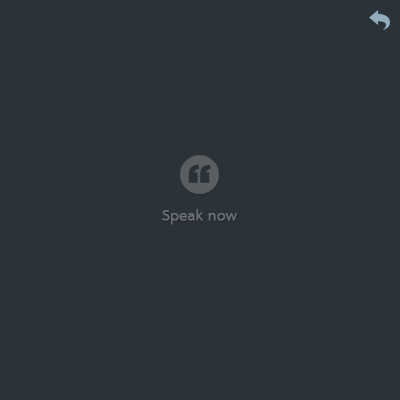
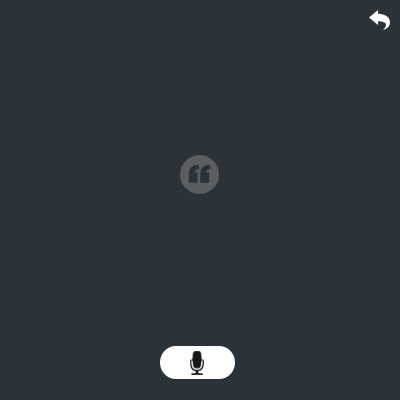
แก้ไขหน้าสอง และ address already ด้วยการปิด socket ทุกครั้งหลังใช้เสร็จ

Changed region(s): [[0.39, 0.84, 0.6, 0.96], [0.39, 0.51, 0.6, 0.57], [0.93, 0.03, 0.99, 0.09]]

diff --git a/src/MainActivity.java b/src/MainActivity.java
@@ -9,11 +9,6 @@ import java.awt.event.WindowAdapter;
 import java.awt.event.WindowEvent;
 import java.awt.event.WindowListener;
 import java.io.IOException;
-import java.io.ObjectOutputStream;
-import java.net.InetSocketAddress;
-import java.nio.channels.ServerSocketChannel;
-import java.nio.channels.SocketChannel;
-
 import javax.swing.JFrame;
 import javax.swing.JOptionPane;
 import javax.swing.JPasswordField;
@@ -27,13 +22,15 @@ public class MainActivity extends JFrame implements KeyListener {
 	ImagePanel join;
 	ImagePanel runframe;
 	MainActivity th = this;
-
+	Listener listener;
+	
+	
+	
 	public static void main(String[] arg) {
 		new MainActivity();
 	}
 
 	public MainActivity() {
-
 		this.setSize(400, 400);
 		Dimension dim = Toolkit.getDefaultToolkit().getScreenSize();
 		this.setLocation(dim.width / 2 - this.getSize().width / 2, dim.height
@@ -45,25 +42,10 @@ public class MainActivity extends JFrame implements KeyListener {
 		this.setResizable(false);
 		this.setVisible(true);
 	}
-
-	public void broadcast(AudioChunk audio) throws InterruptedException,
-			IOException {
-		ServerSocketChannel ssChannel = ServerSocketChannel.open();
-		ssChannel.configureBlocking(true);
-		int port = 8000;
-		ssChannel.socket().bind(new InetSocketAddress(port));
-
-		while (true) {
-			SocketChannel sChannel = ssChannel.accept();
-
-			ObjectOutputStream oos = new ObjectOutputStream(sChannel.socket()
-					.getOutputStream());
-			oos.writeObject(audio);
-			oos.close();
-			System.out.println("Connection ended");
-		}
-	}
-
+	
+	// ############################################################################# //
+	// ############################# Frame Login ################################### //
+	// ############################################################################# //
 	
 	public void frameJoinChannel() {
 		join = new ImagePanel("picture/login.png");
@@ -102,12 +84,11 @@ public class MainActivity extends JFrame implements KeyListener {
 							"Please fill in your password.", "Error",
 							JOptionPane.ERROR_MESSAGE);
 				} else {
-					// configAdhoc();
+					configAdhoc();
 					frameRun();
 				}
 			}
 		});
-
 		join.add(usernameField);
 		join.add(ssidField);
 		join.add(keyField);
@@ -115,40 +96,9 @@ public class MainActivity extends JFrame implements KeyListener {
 		this.add(join);
 		this.revalidate();
 		this.repaint();
+		
 	}
-
-	public void frameRun() {
-		System.out.println("----Run-----");
-		runframe = new ImagePanel("picture/runframe.png");
-		runframe.setSize(400, 400);
-		runframe.setLayout(null);
-		PictureButton back = new PictureButton("picture/back.png",
-				"picture/backClick.png");
-		back.setBounds(370, 10, 21, 20);
-		back.addActionListener(new ActionListener() {
-
-			@Override
-			public void actionPerformed(ActionEvent arg0) {
-				th.remove(runframe);
-				frameJoinChannel();
-			}
-		});
-		runframe.add(back);
-		this.remove(join);
-		this.add(runframe);
-		this.revalidate();
-		this.repaint();
-	}
-
-	public void setStandartTextField(JTextField textField, String text) {
-		textField.setBackground(new Color(58, 65, 73));
-		textField.setForeground(Color.white);
-		textField.setBorder(null);
-		textField.setCaretColor(Color.white);
-		TextPrompt tp = new TextPrompt(text, textField);
-		tp.setForeground(new Color(106, 116, 127));
-	}
-
+	
 	public void configAdhoc() {
 		Process process;
 		try {
@@ -221,8 +171,78 @@ public class MainActivity extends JFrame implements KeyListener {
 		} catch (InterruptedException e) {
 			e.printStackTrace();
 		}
-
 	}
+	
+	// ############################################################################# //
+	// ####################### Frame run steam sound ############################### //
+	// ############################################################################# //
+	
+	boolean speak = true; 
+	public void frameRun() {
+		//Start Thread listener
+		listener = new Listener();
+		listener.start();
+		
+		runframe = new ImagePanel("picture/runframe.png");
+		runframe.setSize(400, 400);
+		runframe.setLayout(null);
+		PictureButton back = new PictureButton("picture/back.png",
+				"picture/back_click.png");
+		back.setBounds(368, 10, 21, 20);
+		back.addActionListener(new ActionListener() {
+
+			@Override
+			public void actionPerformed(ActionEvent arg0) {
+				th.remove(runframe);
+				listener.CloseSocket();
+				listener.stop();
+				frameJoinChannel();
+			}
+		});
+		
+		PictureButton mic = new PictureButton("picture/TapMic.png","picture/SpeakNow.png");
+		mic.setBounds(159,330,75,48);
+		mic.addActionListener(new ActionListener() {
+			@Override
+			public void actionPerformed(ActionEvent arg0) {
+				if(isSpeak()){
+					System.out.println("Speak now"); // start broadcast 
+					setSpeak(false);
+				}else{
+					System.out.println("Tap mic"); // pause broadcast
+					setSpeak(true);
+				}	
+			}
+		});
+		
+		runframe.add(back);
+		runframe.add(mic);
+		this.remove(join);
+		this.add(runframe);
+		this.revalidate();
+		this.repaint();
+	}
+
+	public boolean isSpeak() {
+		return speak;
+	}
+	
+	public void setSpeak(boolean speak) {
+		this.speak = speak;
+	}
+	
+	// ########################################################################## //
+	
+	public void setStandartTextField(JTextField textField, String text) {
+		textField.setBackground(new Color(58, 65, 73));
+		textField.setForeground(Color.white);
+		textField.setBorder(null);
+		textField.setCaretColor(Color.white);
+		TextPrompt tp = new TextPrompt(text, textField);
+		tp.setForeground(new Color(106, 116, 127));
+	}
+
+	
 
 	public void exitListener() {
 		WindowListener exitListener = new WindowAdapter() {
@@ -239,6 +259,9 @@ public class MainActivity extends JFrame implements KeyListener {
 		};
 		this.addWindowListener(exitListener);
 	}
+	
+	
+
 
 	@Override
 	public void keyPressed(KeyEvent e) {
@@ -257,5 +280,6 @@ public class MainActivity extends JFrame implements KeyListener {
 		// TODO Auto-generated method stub
 
 	}
-
+	
+	
 }

diff --git a/src/Listener.java b/src/Listener.java
@@ -1,0 +1,58 @@
+import java.io.IOException;
+import java.net.DatagramPacket;
+import java.net.DatagramSocket;
+import java.net.SocketException;
+
+public class Listener extends Thread{
+	private SoundPlayer soundPlayer;
+	private int oldSequenceNumber =-1;
+	DatagramSocket aSocket = null;
+	
+	public Listener(){
+		soundPlayer = new SoundPlayer();
+	}
+	
+	public void run(){
+		System.out.println("Thread Listener Start");
+		int PORT = 55555;
+		try{
+			aSocket = new DatagramSocket(PORT);
+			aSocket.setBroadcast(true);
+			while(true){
+				byte[] buffer = new byte[AudioChunk.TOTAL_LENGTH];
+				DatagramPacket receivePacket = new DatagramPacket(buffer, buffer.length);
+				aSocket.receive(receivePacket);
+				System.out.println("Request IP address: "+ receivePacket.getAddress() + " Port: "+ receivePacket.getPort());
+				try {
+					AudioChunk receiveChunk = new AudioChunk(receivePacket.getData());
+					if(receiveChunk.sequenceNumber > oldSequenceNumber) {
+						soundPlayer.addSoundToQueue(receiveChunk);
+						oldSequenceNumber = receiveChunk.sequenceNumber;
+					}
+				} catch (AudioChunkIncorrectLengthException e) {
+					e.printStackTrace();
+				}
+			}
+		}catch(SocketException ex){
+			System.out.print("Class Listener Socket exception: ");
+			System.out.print(ex.getMessage());
+		}catch(IOException ex){
+			System.out.print("Class Listener IO Exception: ");
+			System.out.print(ex.getMessage());
+		}finally{
+			if(aSocket != null){
+				aSocket.close();		
+			}
+		}
+	}
+	public SoundPlayer getSoundPlayer() {
+		return soundPlayer;
+	}
+	public void setSoundPlayer(SoundPlayer soundPlayer) {
+		this.soundPlayer = soundPlayer;
+	}
+	public void CloseSocket() {
+		aSocket.close();
+	}
+	
+}

diff --git a/src/PictureButton.java b/src/PictureButton.java
@@ -19,7 +19,7 @@ public class PictureButton extends JButton{
 			present = ImageIO.read(PictureButton.class.getClassLoader().getResourceAsStream(path));
 				
 		}catch(IOException io){
-			
+			io.printStackTrace();
 		}
 		Dimension size = new Dimension(present.getWidth(),present.getHeight());
 		setSize(size);
@@ -46,11 +46,10 @@ public class PictureButton extends JButton{
 				// TODO Auto-generated method stub
 				ButtonModel model = (ButtonModel) e.getSource(); 
 				
-				if(model.isPressed()||model.isRollover()){
-					present = th.buttonChange;
+				if(model.isPressed()){ // model.isRollover()
+					if(present == th.buttonChange) present = th.buttonIcon;
+					else present = th.buttonChange;
 					repaint();
-				}else{
-					present = th.buttonIcon;
 				}
 			}
 		});
@@ -62,6 +61,7 @@ public class PictureButton extends JButton{
 		setOpaque(false);
 		setContentAreaFilled(false);
 	}
+
 	
 	public void paintComponent(Graphics g){
 		super.paintComponents(g);

diff --git a/src/AudioChunk.java b/src/AudioChunk.java
@@ -1,4 +1,3 @@
-import java.io.Serializable;
 import java.nio.charset.StandardCharsets;
 
 public class AudioChunk {
